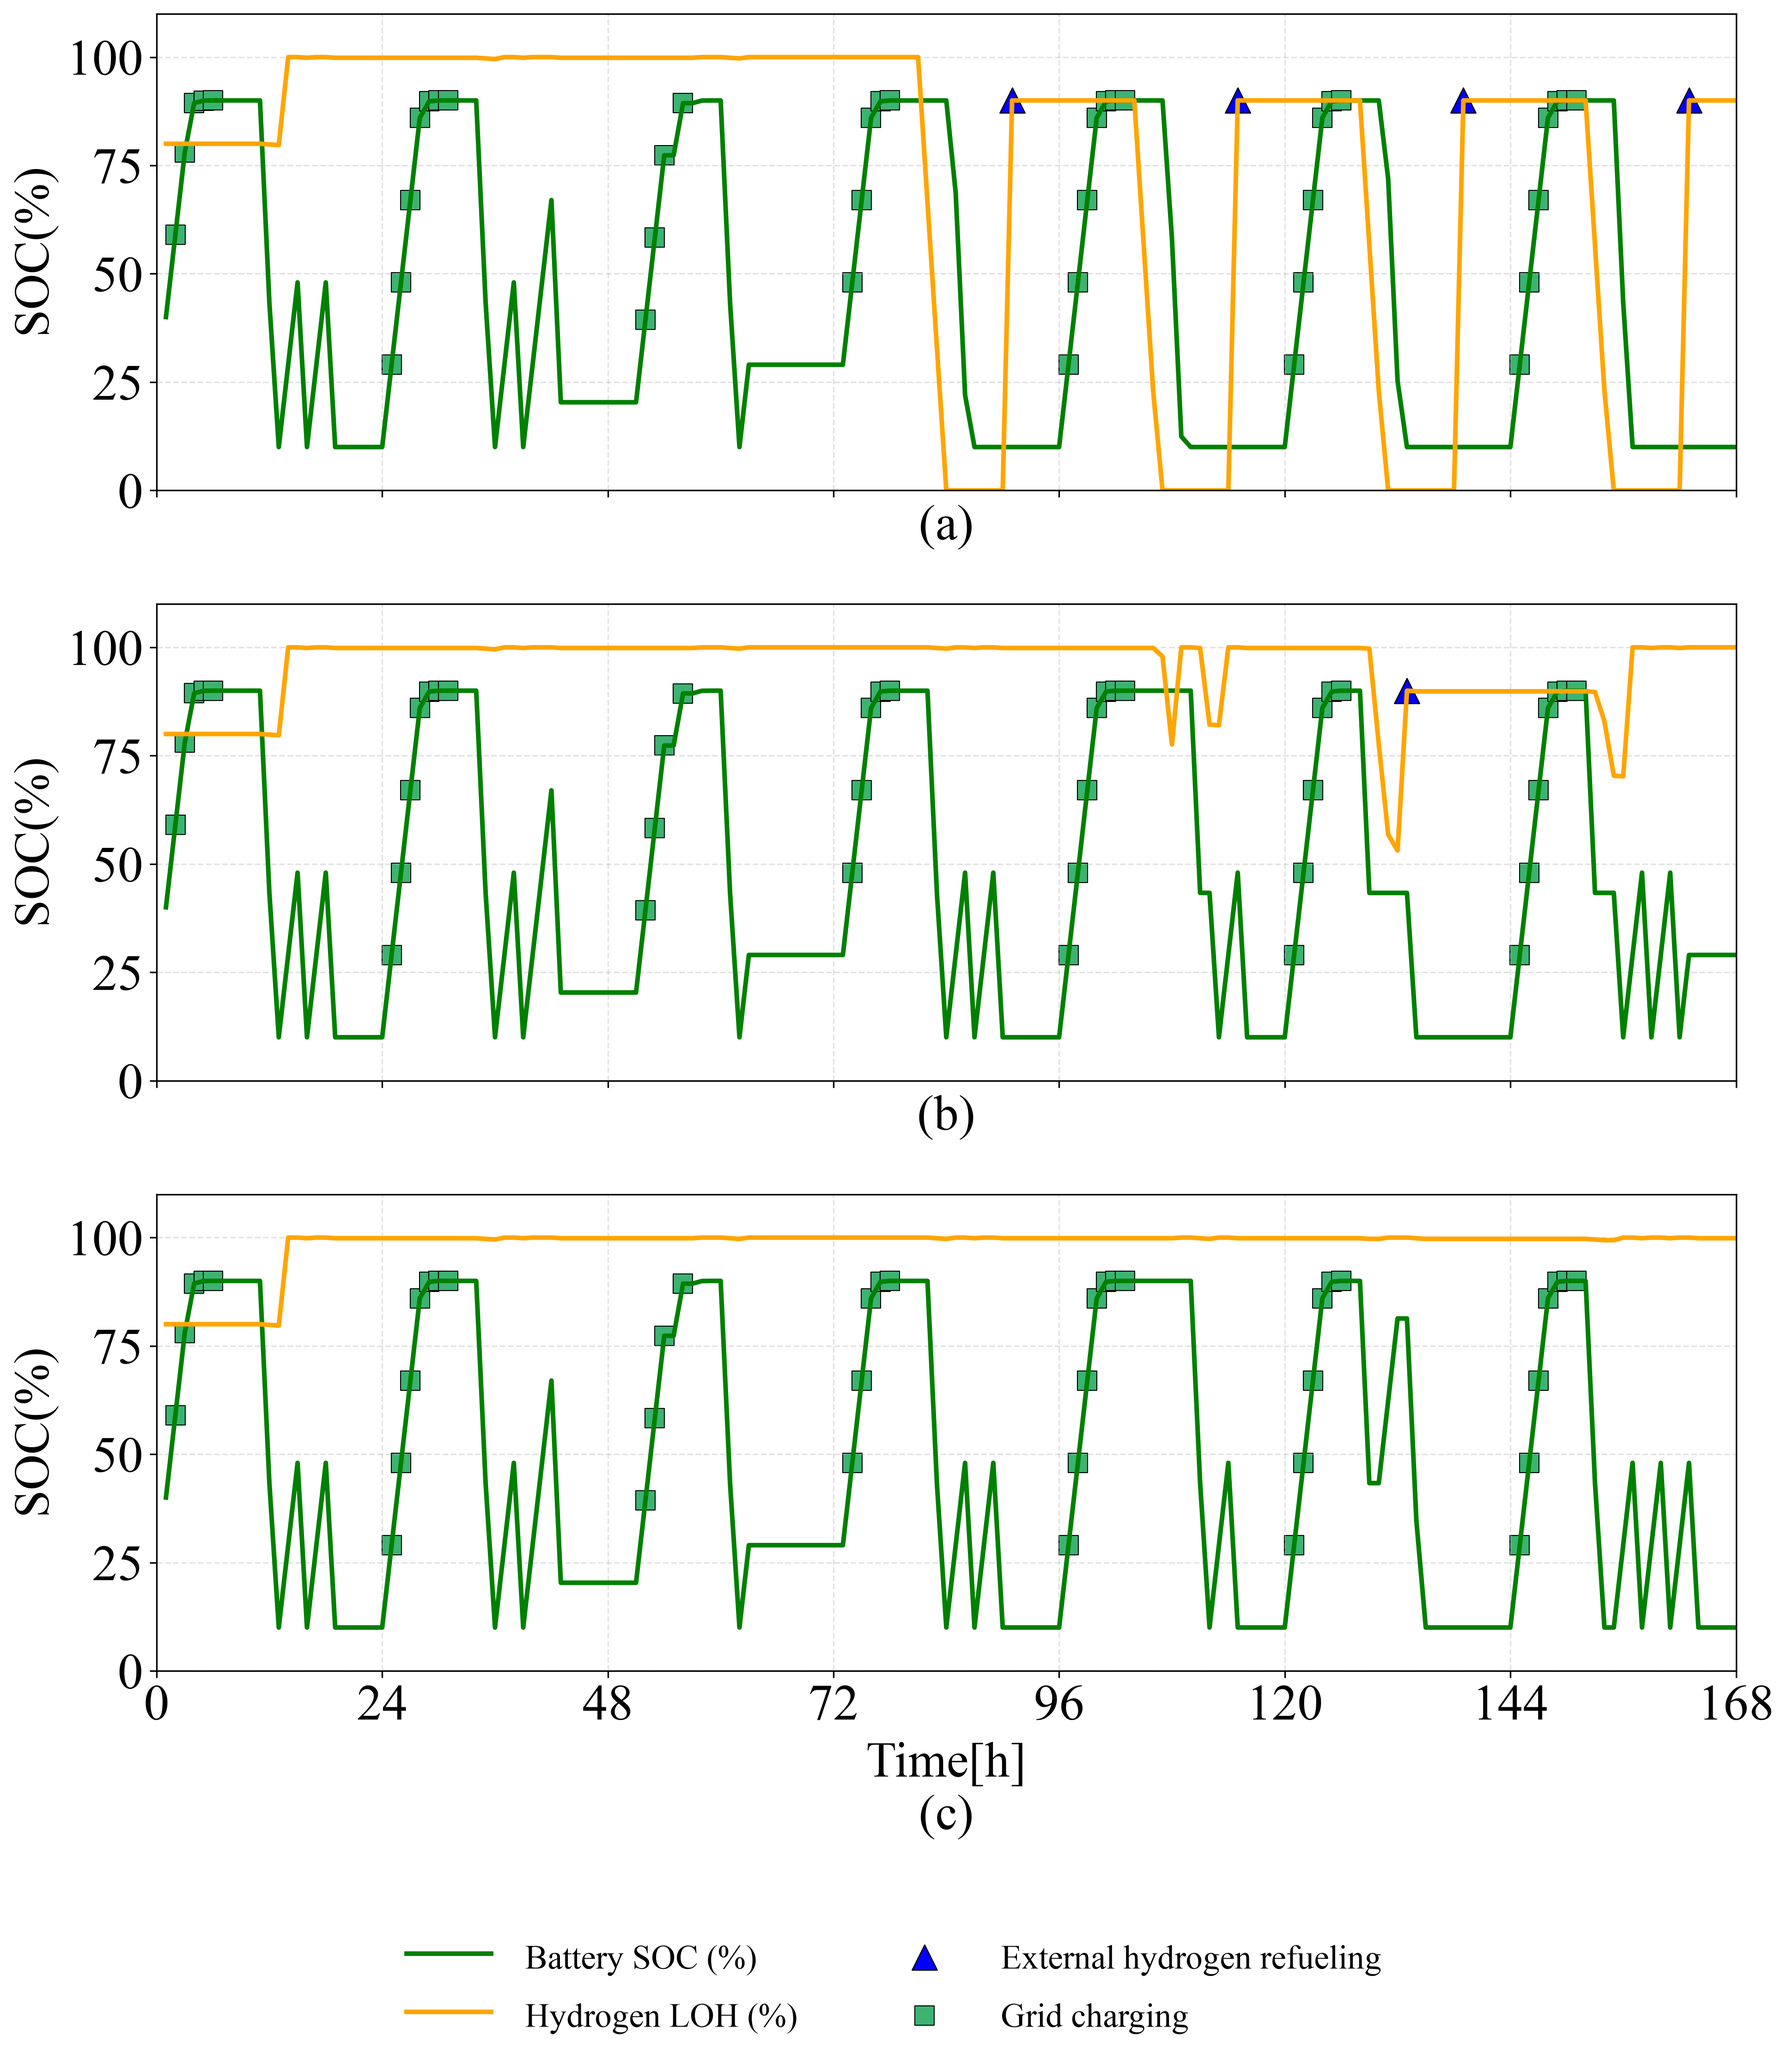
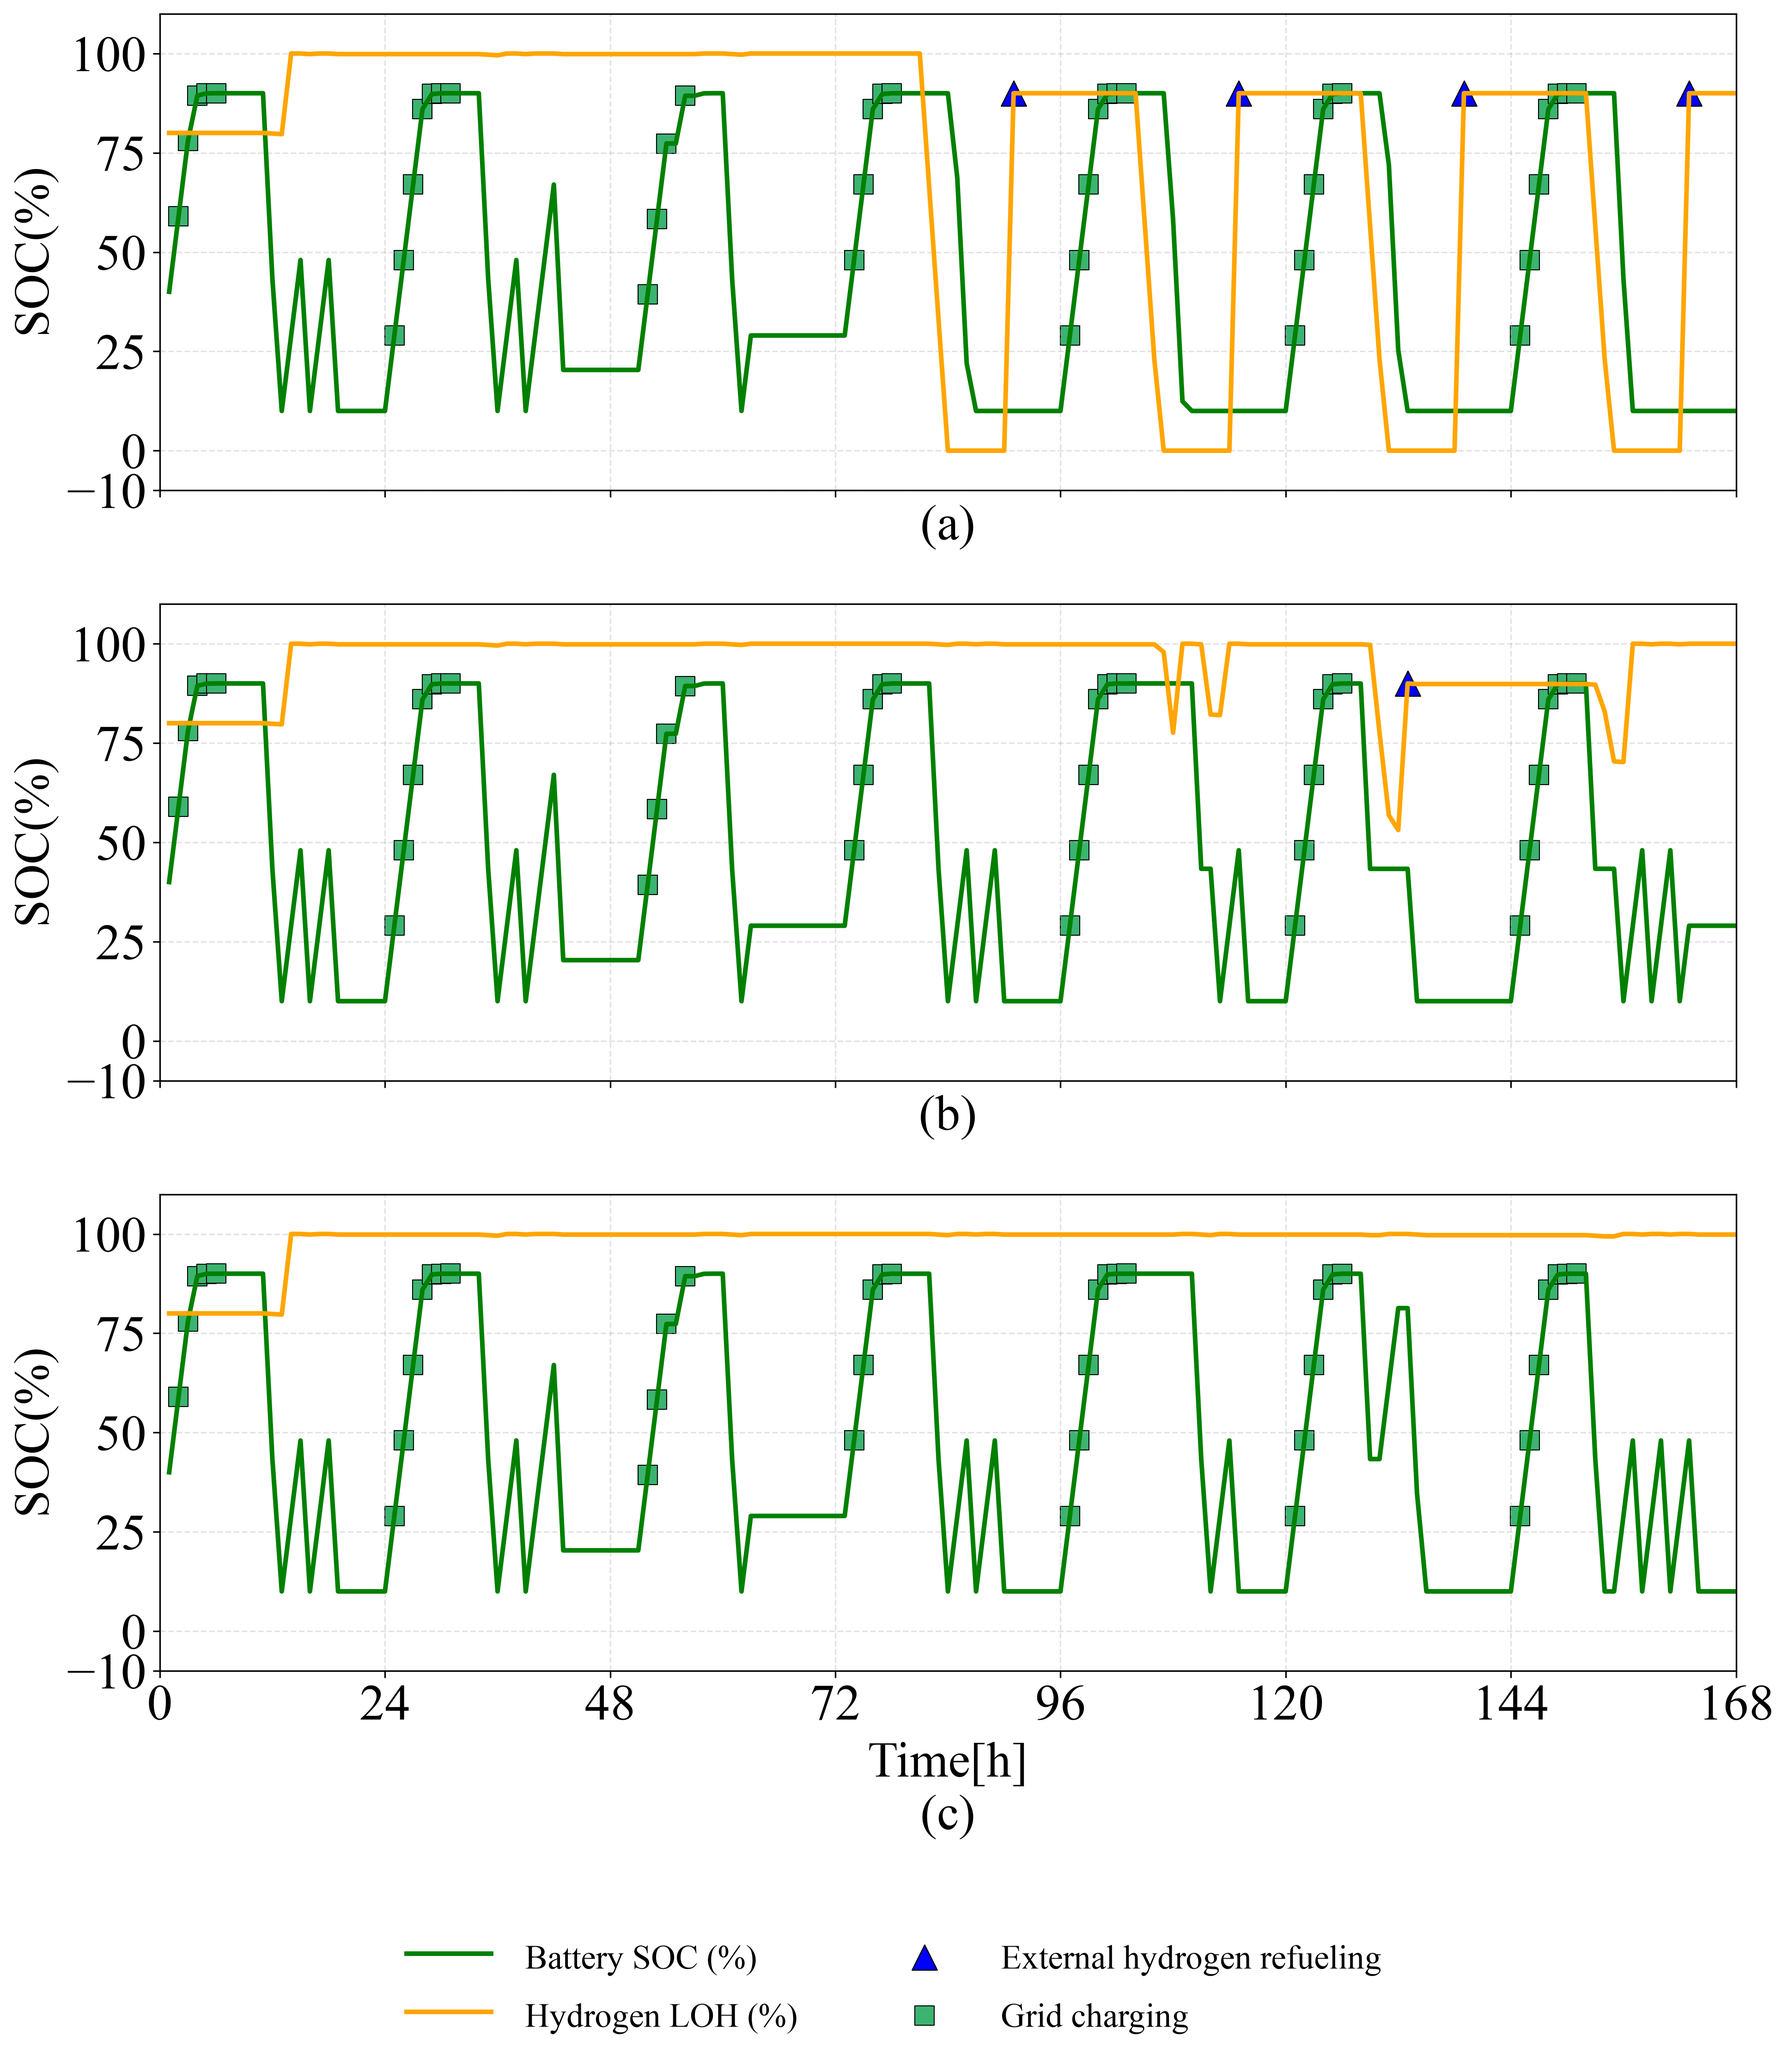
Extend Figure 6 y-axis below zero

diff --git a/HB-MPS main simulation.py b/HB-MPS main simulation.py
@@ -523,8 +523,8 @@ def draw_asset_status(ax, res, alpha):
         )
 
     ax.set_ylabel("SOC(%)", fontsize=Config.FONT_LABEL)
-    ax.set_ylim(0, 110)
-    ax.set_yticks([0, 25, 50, 75, 100])
+    ax.set_ylim(-10, 110)
+    ax.set_yticks([-10, 0, 25, 50, 75, 100])
     ax.grid(True, linestyle="--", alpha=0.35)
     format_time_axis(ax)
 
